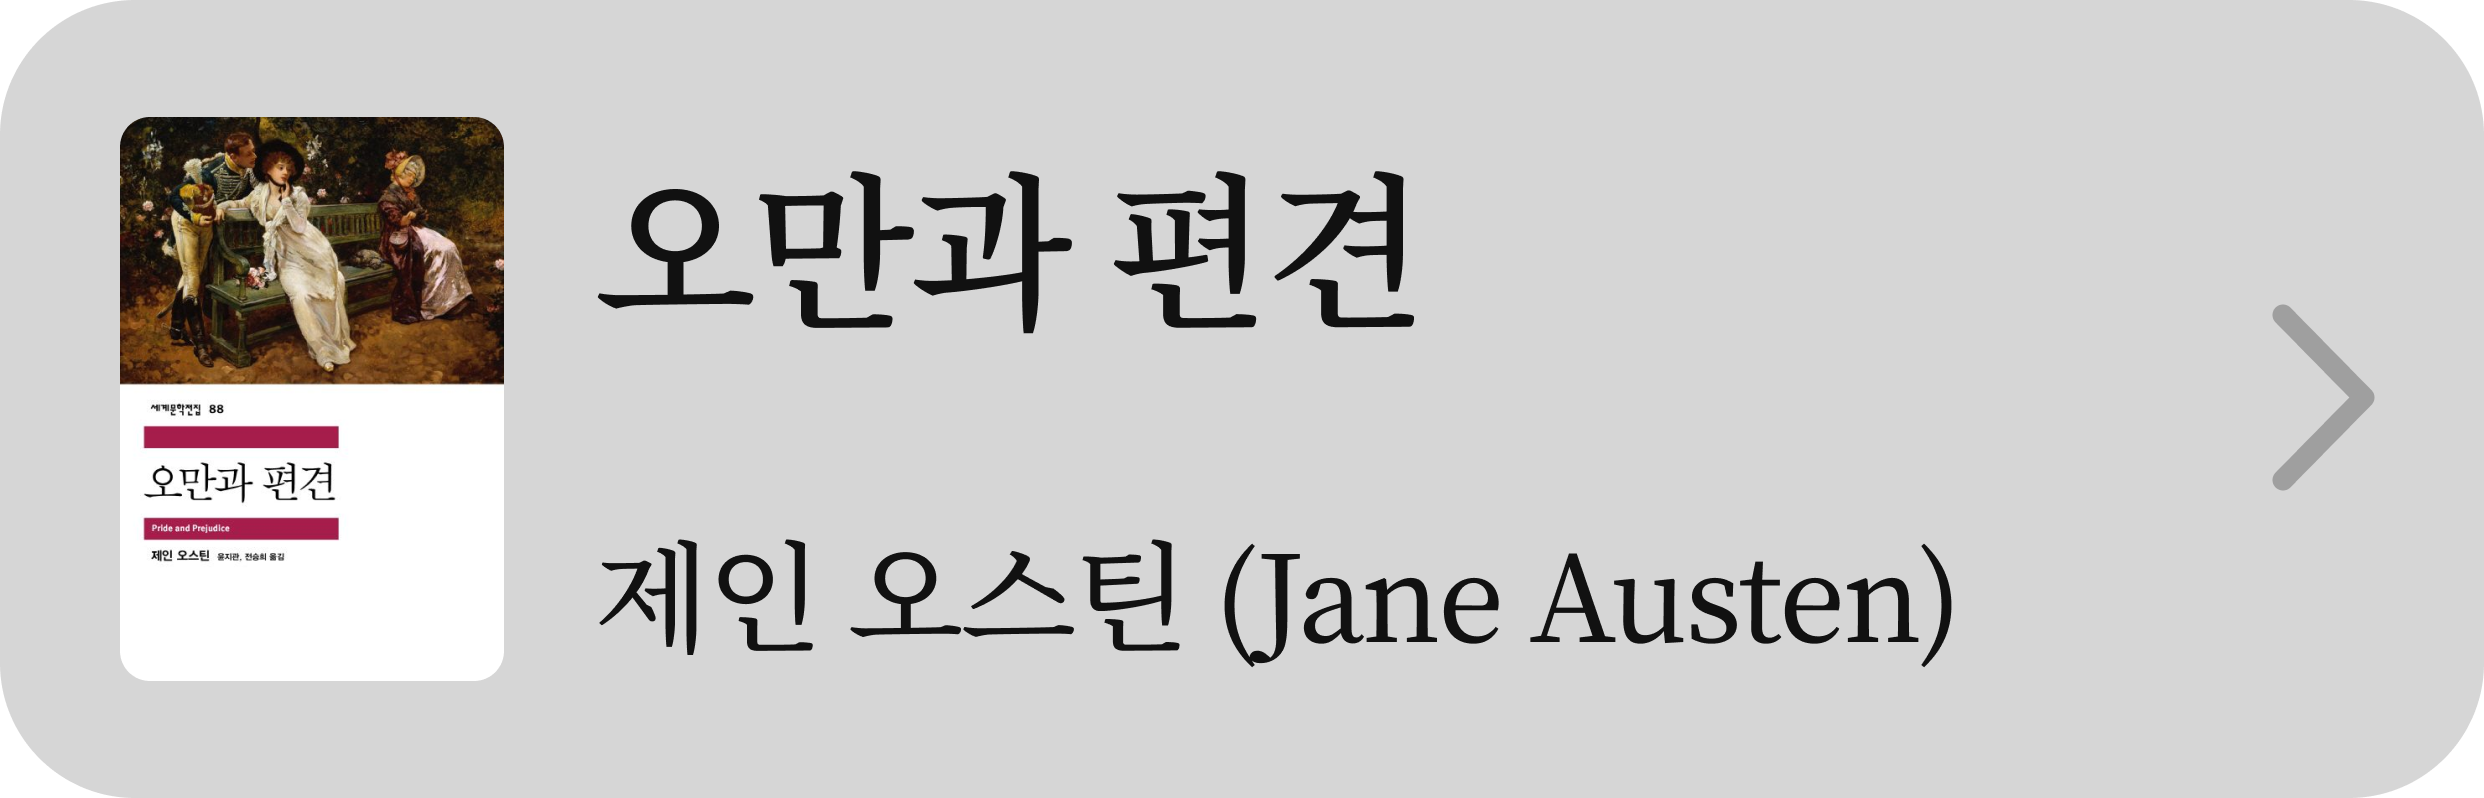
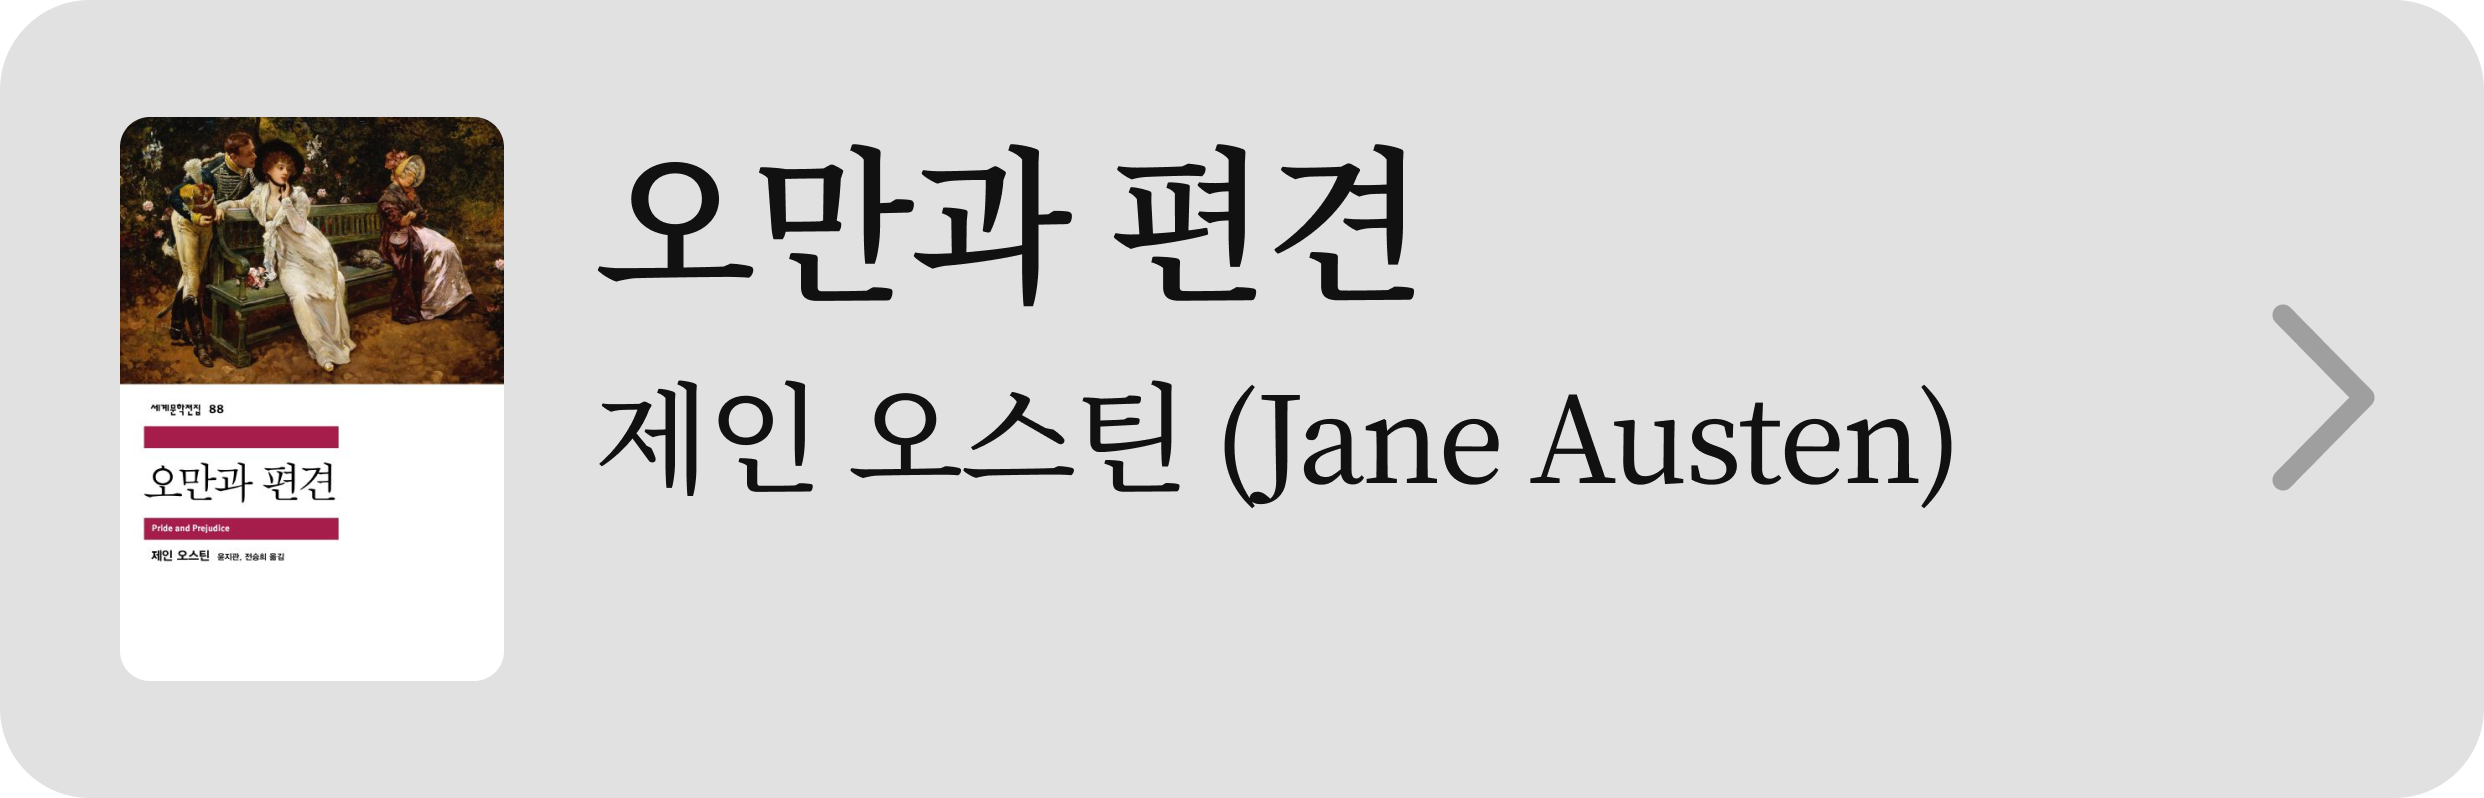
123
123

diff --git a/styles.css b/styles.css
@@ -128,14 +128,15 @@ body {
 }
 #모달제목 {
   position: absolute;
-  font-weight: 500;
-  font-size: 9vw;
-  top: -2.2vh;
+  font-weight: 600;
+  font-size: 7vw;
+  /* top: -2.2vh; */
   left: 6vw;
 }
 #모달부제목 {
   position: absolute;
-  font-weight: 400;
+  color: #3a3a3a;
+  font-weight: 500;
   font-size: 4.5vw;
   top: 7.5vh;
   left: 6vw;
